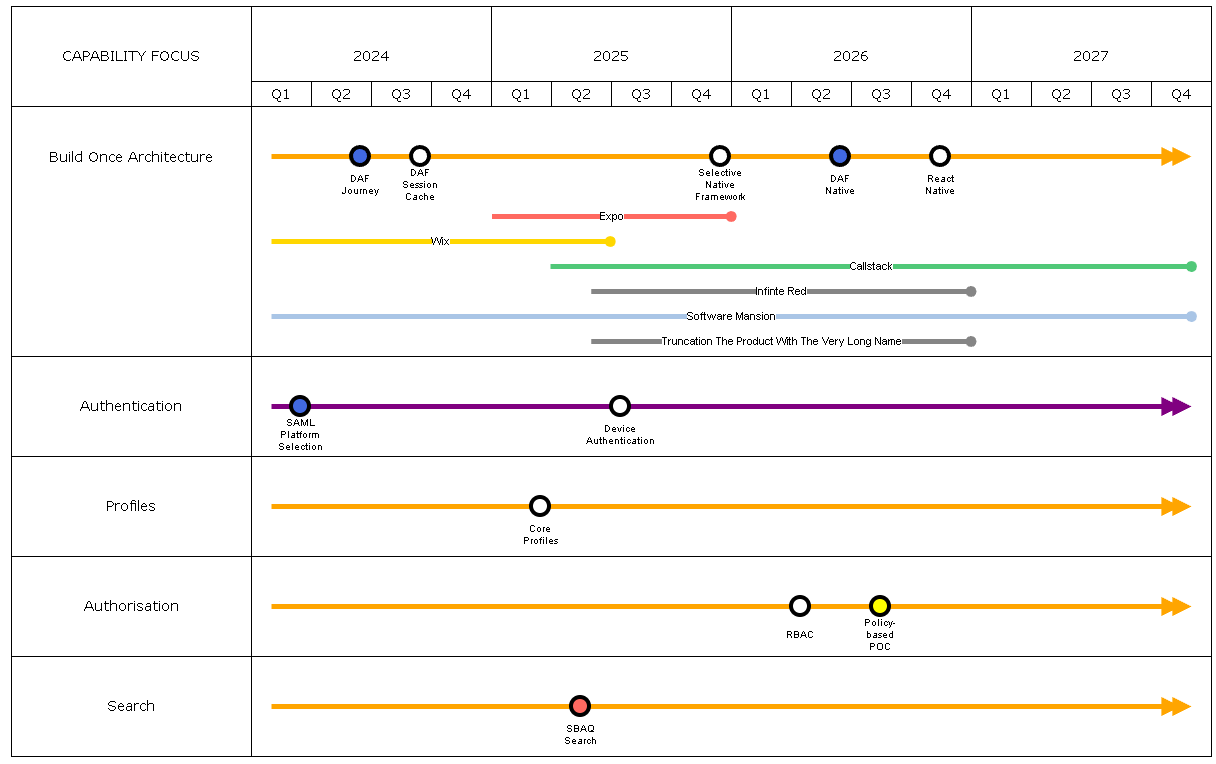
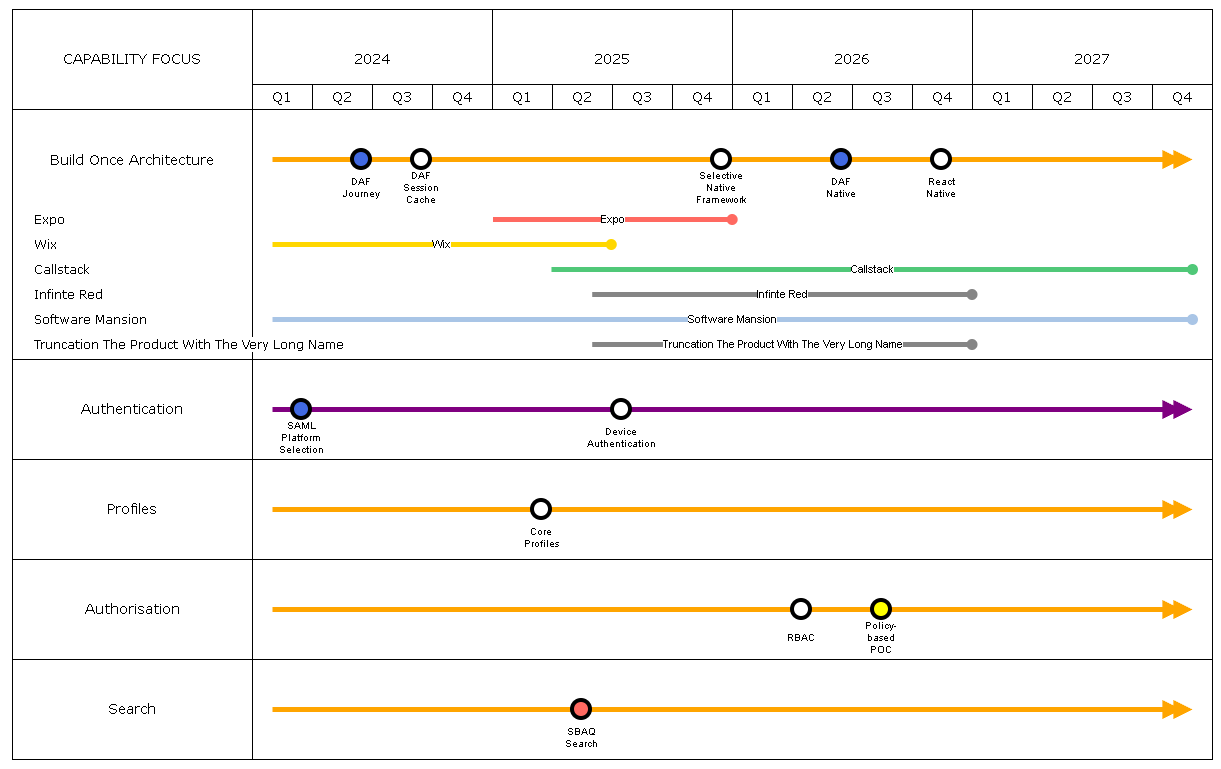
add drawio lifeline labelling

diff --git a/drawio_roadmaps/renderers/roadmap_renderer.py b/drawio_roadmaps/renderers/roadmap_renderer.py
@@ -193,20 +193,33 @@ class DrawIORoadmapRenderer:
                 lifeline_begin_x = xy_timeline_begin[0] + start_position_ratio * year_lenght_px * roadmap.years + start_gap
                 lifeline_end_x = xy_timeline_begin[0] + end_position_ratio * year_lenght_px * roadmap.years - end_gap
 
-                lifeline.tubemap_line(root=root,
-                                      layer="Default",
-                                      begin_x=lifeline_begin_x,
-                                      begin_y=xy_timeline_begin[1] + ix_lf * (swimlane_height_px // 4), # todo remove magic
-                                      end_x=lifeline_end_x,
-                                      end_y=xy_timeline_end[1] + ix_lf * (swimlane_height_px // 4), # todo remove magic
-                                      width=2,
-                                      height=2,
-                                      style={
+                # ToDo: why are we passing so much whne it's on the object?
+                # it should be just lifeline.render() with positional and layer data?
+                lifeline.tubemap_lifeline(root=root,
+                                          layer="Default",
+                                          begin_x=lifeline_begin_x,
+                                          begin_y=xy_timeline_begin[1] + ix_lf * (swimlane_height_px // 4),  # todo remove magic
+                                          end_x=lifeline_end_x,
+                                          end_y=xy_timeline_end[1] + ix_lf * (swimlane_height_px // 4),  # todo remove magic
+                                          width=2,
+                                          height=2,
+                                          style={
                                             'strokeColor': lifeline.type.metadata_drawio.strokeColor,
                                             'strokeWidth': '5',
                                             'endArrow': 'oval',
                                             },
-                                      value=lifeline.name)
+                                          value=lifeline.name)
+
+                lifeline.tubemap_lifeline_label(root=root,
+                                                x=0 + typographic_line_gap,
+                                                y=xy_timeline_begin[1] + ix_lf * (swimlane_height_px // 4) - 10,
+                                                width=year_lenght_px - typographic_line_gap,
+                                                height=20,
+                                                value=lifeline.name,
+                                                style = {
+                                                    'fontSize': '12',
+                                                    'align': 'left',
+                                                })
 
             print(f"Swimlane {swimlane.name} height: {swimlane.height()}")
             actual_height = swimlane.height()

diff --git a/drawio_roadmaps/drawio/drawio_shapes.py b/drawio_roadmaps/drawio/drawio_shapes.py
@@ -186,20 +186,34 @@ def create_rectangle(parent, x, y, width, height, **kwargs):
 
 
 class Label:
+
     def __init__(self, name, x, y, width, height, **kwargs):
-        self.kwargs = kwargs
-        self.kwargs['value'] = name
-        self.kwargs['style'] = ('text;html=1;strokeColor=none;fillColor=none;align=center;fontFamily=Verdana;' +
-                                'verticalAlign=middle;whiteSpace=wrap;rounded=0;fontSize=14;' +
-                                'labelBackgroundColor=#ffffff;')
-        self.x1 = x
-        self.y1 = y
+        self.kwargs = {'value': name}
+        self.style = {
+            'html': '1',
+            'strokeColor': 'none',
+            'fillColor': 'none',
+            'align': 'center',
+            'fontFamily': 'Verdana',
+            'verticalAlign': 'middle',
+            #'whiteSpace': 'wrap',
+            'rounded': '0',
+            'fontSize': '14',
+            'labelBackgroundColor': '#ffffff'
+        }
+
+        self.style.update(kwargs.get('style', {}))
+        self.kwargs['style'] = 'text;' + ';'.join(f'{key}={value}' for key, value in self.style.items())
+
+        self.x = x
+        self.y = y
         self.width = width
         self.height = height
 
+
     def render(self, root):
         layer = layer_id_2(root, 'Default')
-        container = create_rectangle(layer, self.x1, self.y1, self.width, self.height, **self.kwargs)
+        container = create_rectangle(layer, self.x, self.y, self.width, self.height, **self.kwargs)
         root.append(container)
 
 

diff --git a/drawio_roadmaps/classes/lifeline.py b/drawio_roadmaps/classes/lifeline.py
@@ -32,12 +32,14 @@ class LifeLine:
     def set_lifeline_type(self, type):
         self.type = type
 
-
-
     def set_renderer(self, renderer):
         self.renderer = renderer
 
-    def tubemap_line(self, root, layer, begin_x, begin_y, end_x, end_y, width, height, style, **kwargs):
+    def render(self, root):
+        result = renderer_manager.get_renderer('lifeline').render(self)
+        return result
+
+    def tubemap_lifeline(self, root, layer, begin_x, begin_y, end_x, end_y, width, height, style, **kwargs):
         renderer = renderer_manager.get_renderer('lifeline')
         renderer.render_lifeline(root=root,
                                  layer=layer,
@@ -49,4 +51,15 @@ class LifeLine:
                                  height=height,
                                  style=style,
                                  value=kwargs.get('value', ''))
+        return
+
+    def tubemap_lifeline_label(self, root, x, y, width, height, value, **kwargs):
+        renderer = renderer_manager.get_renderer('lifeline')
+        renderer.render_label(root=root,
+                              x=x,
+                              y=y,
+                              width=width,
+                              height=height,
+                              value=value,
+                              style=kwargs.get('style', ''))
         return

diff --git a/drawio_roadmaps/renderers/lifeline_renderer.py b/drawio_roadmaps/renderers/lifeline_renderer.py
@@ -1,4 +1,4 @@
-from drawio_roadmaps.drawio.drawio_shapes import Line
+from drawio_roadmaps.drawio.drawio_shapes import Line, Label
 from drawio_roadmaps.drawio.drawio_utils import id_generator_2, layer_id_2
 
 
@@ -28,6 +28,16 @@ class DrawIOLifeLineRenderer(LifeLineRenderer):
                     style=style,
                     value=kwargs.get('value', ''))
         line.render(root)
+
+    def render_label(self, root, x, y, width, height, value, **kwargs):
+        label = Label(
+                     value,
+                     x=x,
+                     y=y,
+                     width=width,
+                     height=height,
+                     **kwargs)
+        label.render(root)
         return
 
 
